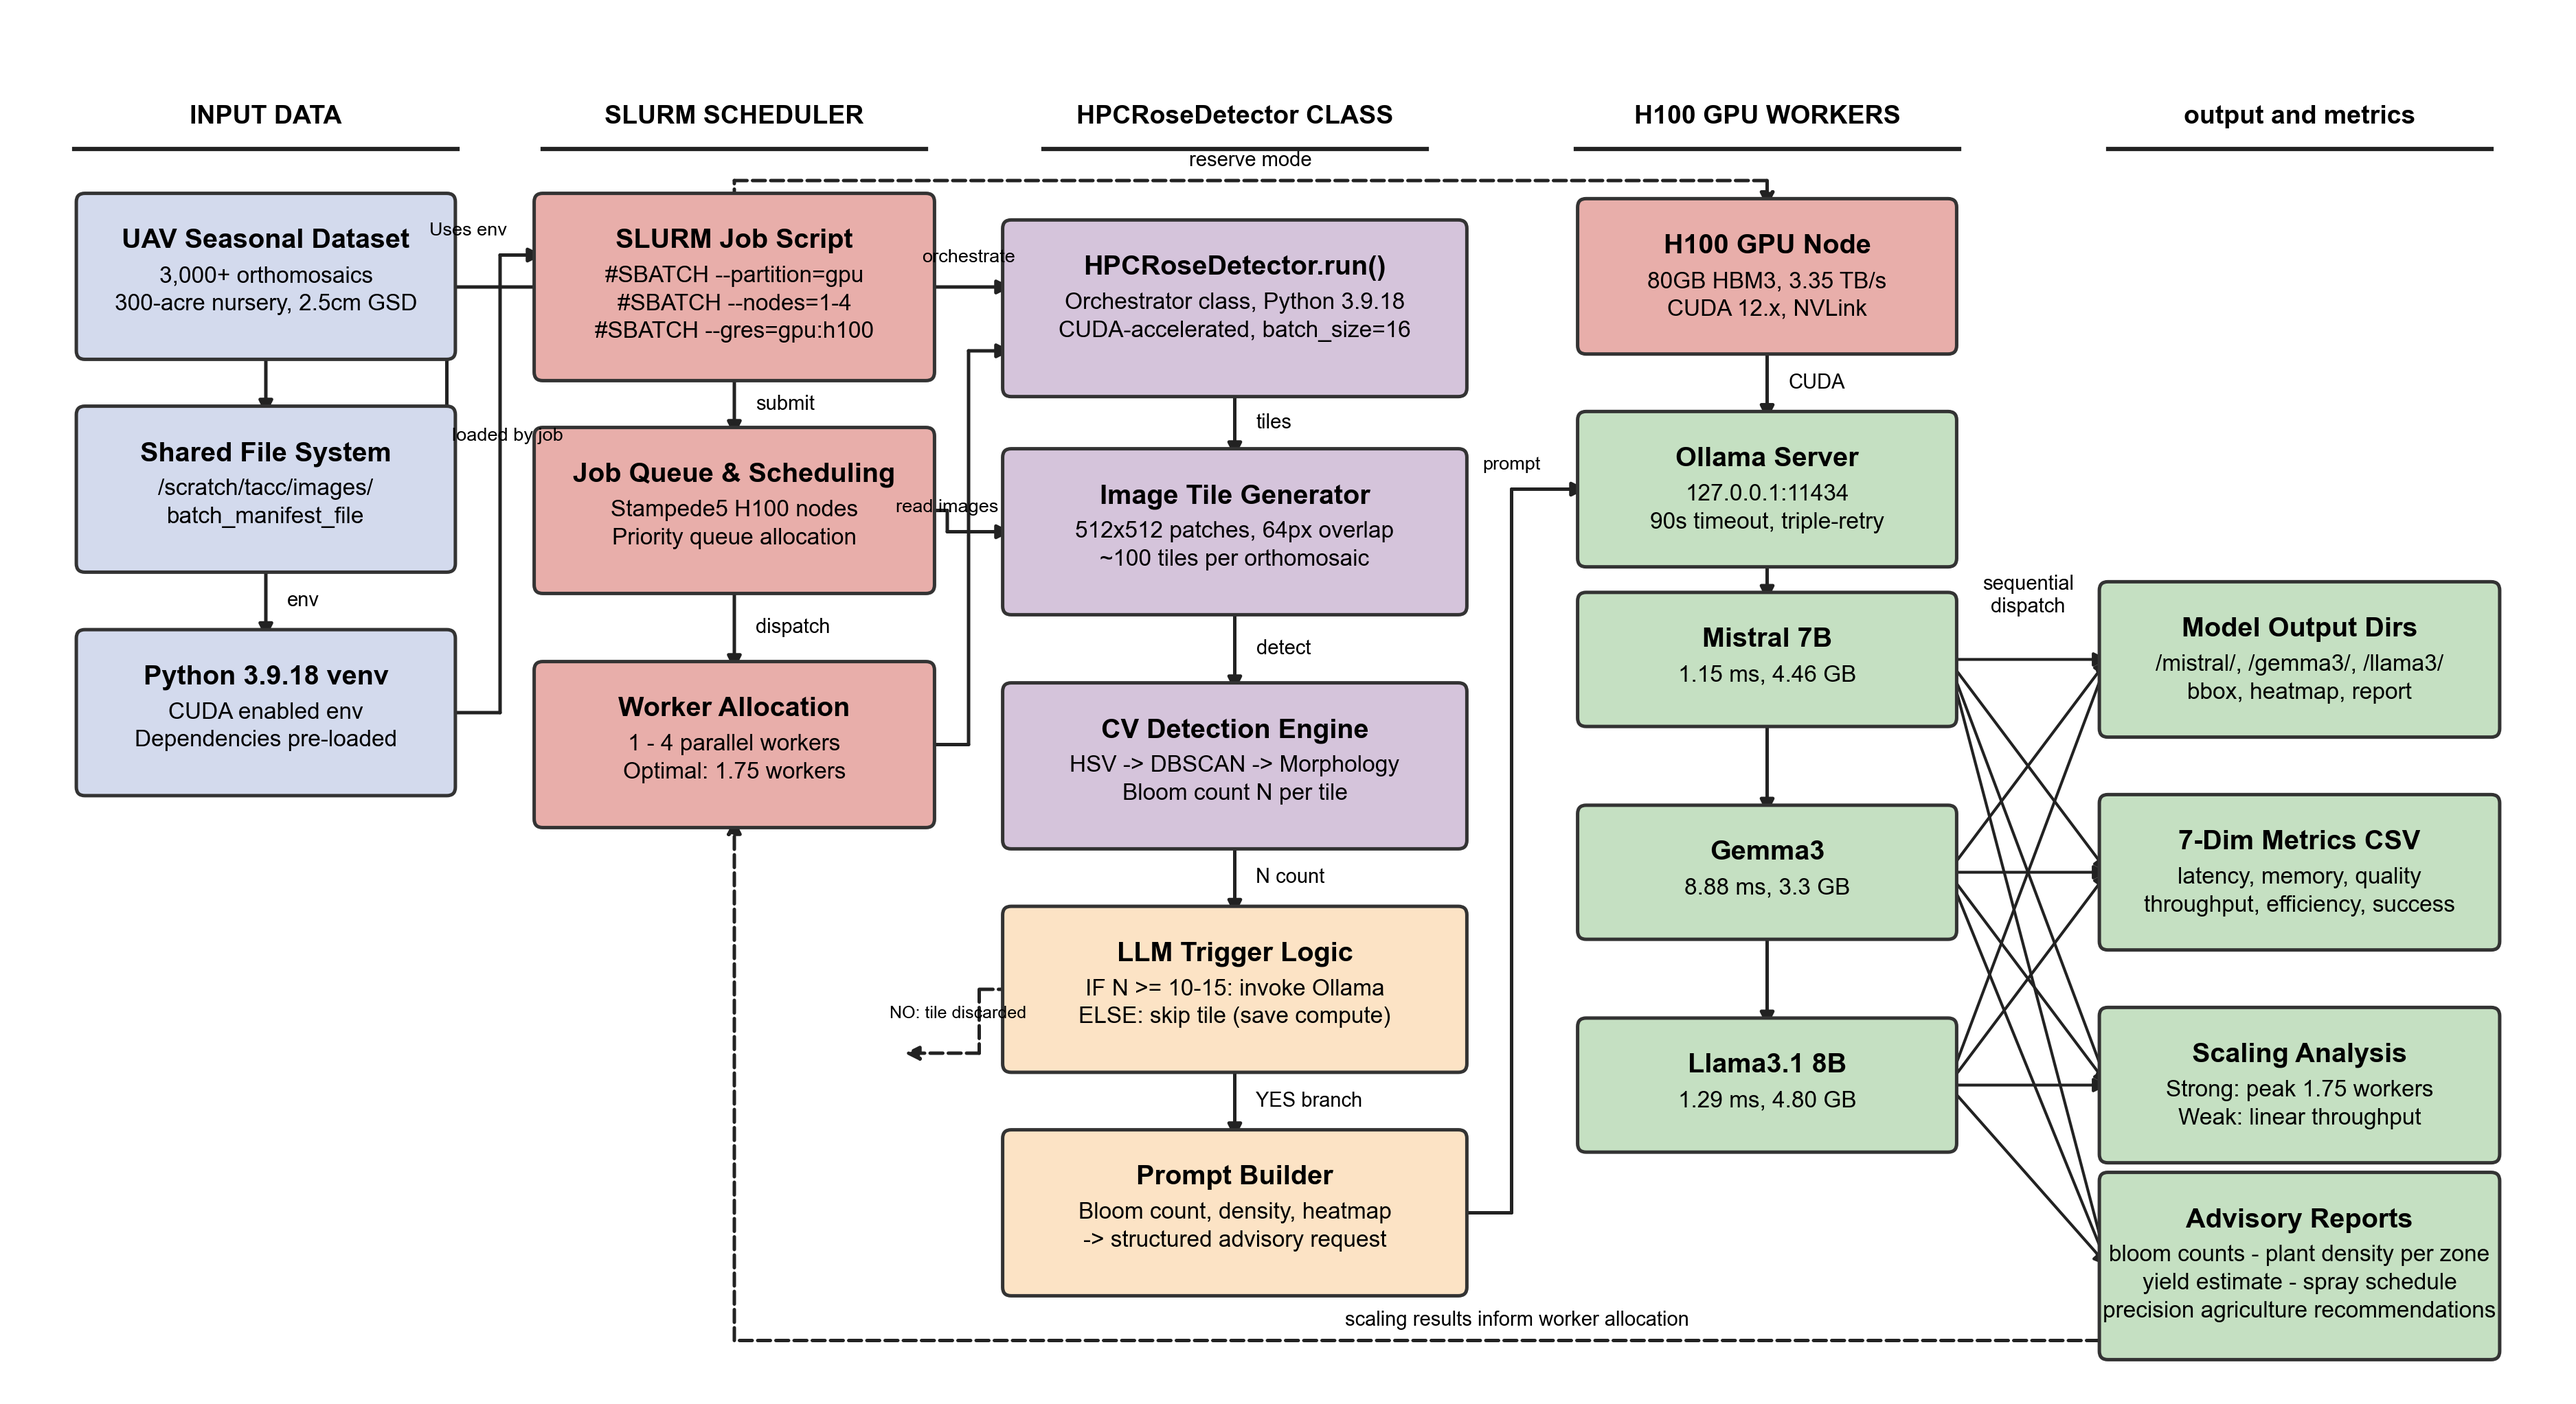
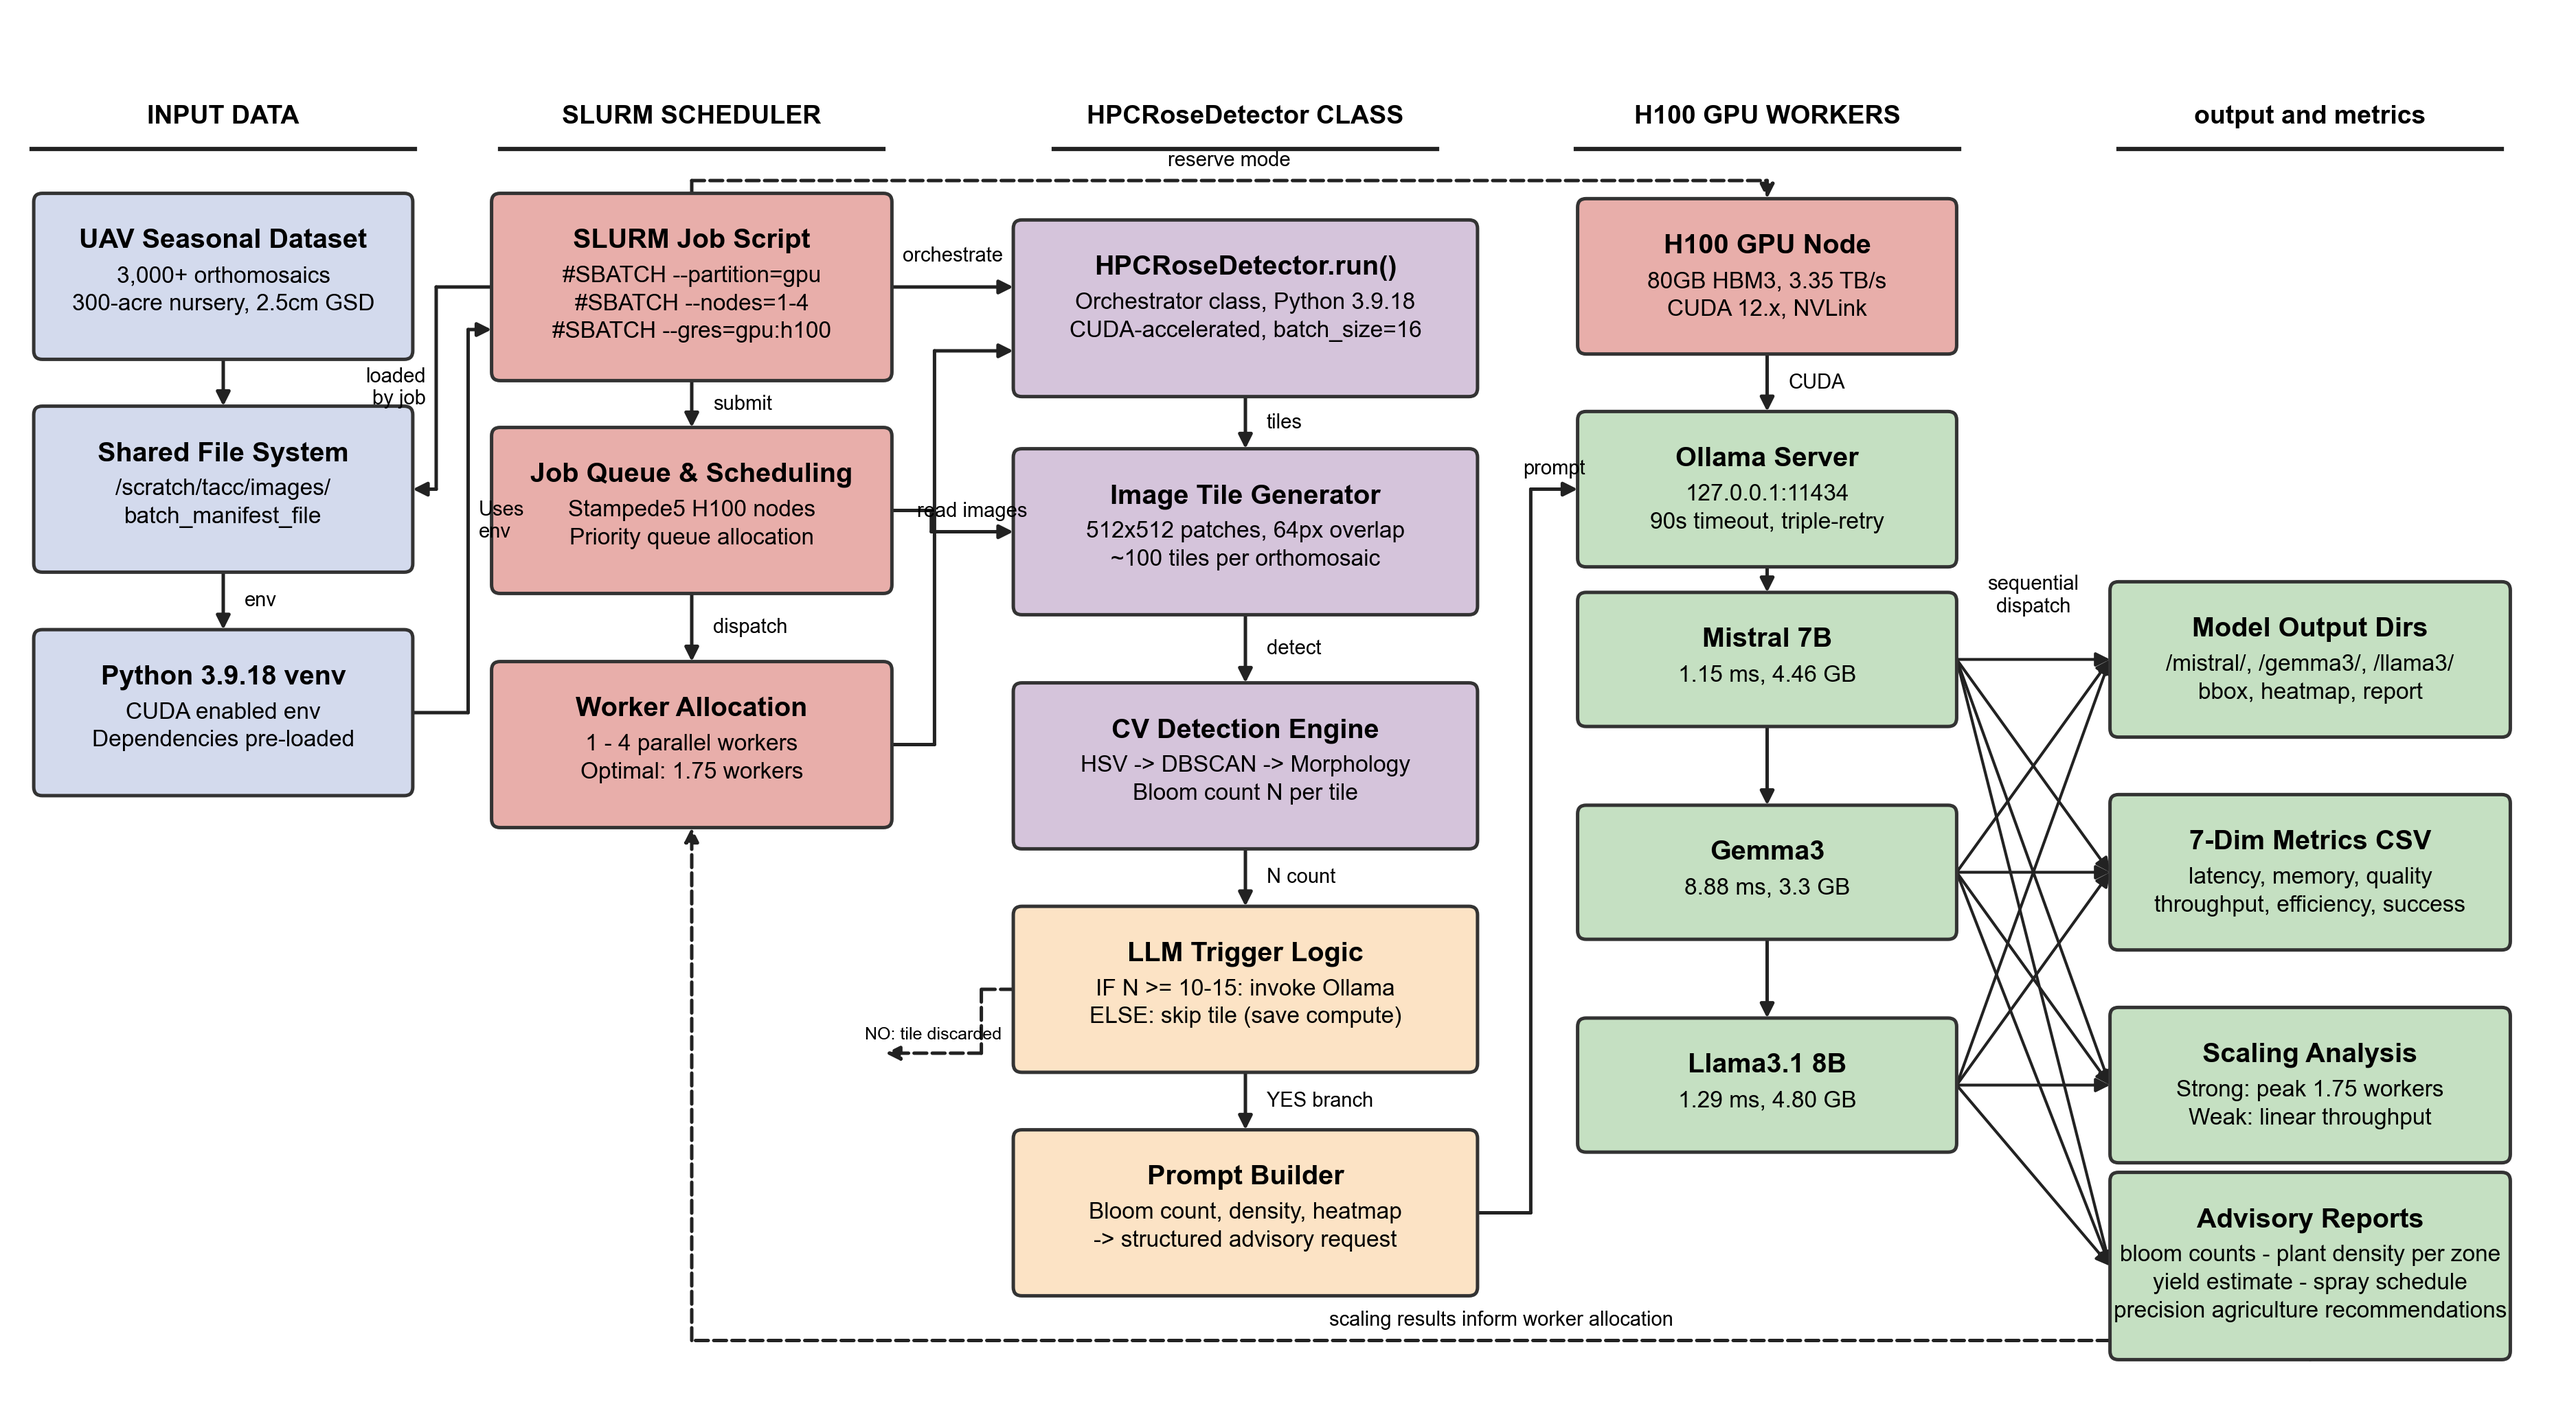
fix(diagram): fully resolve intersecting text layout and fix clipped arrowheads

diff --git a/create_hpc_architecture_diagram.py b/create_hpc_architecture_diagram.py
@@ -70,8 +70,8 @@ def create_diagram(save_path, fmt="png"):
                     fontsize=8, zorder=5, linespacing=1.4)
 
         return dict(cx=cx, cy=cy, w=w, h=h,
-                    t=(cx, cy + h/2), b=(cx, cy - h/2),
-                    l=(cx - w/2, cy), r=(cx + w/2, cy))
+                    t=(cx, cy + h/2 + 0.08), b=(cx, cy - h/2 - 0.08),
+                    l=(cx - w/2 - 0.08, cy), r=(cx + w/2 + 0.08, cy))
 
     # ── Arrow: straight ──────────────────────────────────────────────
     def arr(p1, p2, lbl=None, loff=(0, 0), color=EDGE_COL, lw=1.2,
@@ -93,7 +93,7 @@ def create_diagram(save_path, fmt="png"):
     # ==================================================================
     #  COLUMN X-CENTRES & HEADINGS
     # ==================================================================
-    cx1, cx2, cx3, cx4, cx5 = 2.4, 6.8, 11.5, 16.5, 21.5
+    cx1, cx2, cx3, cx4, cx5 = 2.0, 6.4, 11.6, 16.5, 21.6
     heading_y = 12.0
     
     headings = [
@@ -213,26 +213,26 @@ def create_diagram(save_path, fmt="png"):
 
     # -- Cross-Column Connections --
     
-    # "loaded by job": From SLURM (left) LEFT, DOWN, RIGHT to Shared FS (left)
+    # "loaded by job": From SLURM (left) LEFT, DOWN, LEFT to Shared FS (right)
     slurm_lt = b_slurm["l"]
-    sfs_lt = b_sfs["l"]
-    mid_x_1 = slurm_lt[0] - 0.9
+    sfs_rt = b_sfs["r"]
+    mid_x_1 = 4.0
     arr(slurm_lt, (mid_x_1, slurm_lt[1]), headless=True)
-    arr((mid_x_1, slurm_lt[1]), (mid_x_1, sfs_lt[1]), headless=True)
-    arr((mid_x_1, sfs_lt[1]), sfs_lt)
-    label(mid_x_1 + 0.05, sfs_lt[1] + 0.5, "loaded by job", ha="left", fs=6.5)
+    arr((mid_x_1, slurm_lt[1]), (mid_x_1, sfs_rt[1]), headless=True)
+    arr((mid_x_1, sfs_rt[1]), sfs_rt)
+    label(mid_x_1 - 0.1, (slurm_lt[1] + sfs_rt[1]) / 2, "loaded\nby job", ha="right", va="center", fs=7)
 
     # "Uses env": From Python venv (right) RIGHT, UP, RIGHT to SLURM (left)
     venv_rt = b_venv["r"]
-    mid_x_2 = slurm_lt[0] - 0.4
-    dest_y_slurm = b_slurm["cy"] + 0.3 # Enter high on the left edge
+    mid_x_2 = 4.3
+    dest_y_slurm = b_slurm["cy"] - 0.4 # Enter low on the left edge
     arr(venv_rt, (mid_x_2, venv_rt[1]), headless=True)
     arr((mid_x_2, venv_rt[1]), (mid_x_2, dest_y_slurm), headless=True)
     arr((mid_x_2, dest_y_slurm), (b_slurm["l"][0], dest_y_slurm))
-    label(mid_x_2 - 0.3, dest_y_slurm + 0.15, "Uses env", ha="center", va="bottom", fs=6.5)
+    label(mid_x_2 + 0.1, (venv_rt[1] + dest_y_slurm) / 2, "Uses\nenv", ha="left", va="center", fs=7)
 
     # "orchestrate": SLURM (right) to HPC Run (left)
-    arr(b_slurm["r"], (b_run["l"][0], b_slurm["cy"]), lbl="orchestrate", loff=(0, 0.2), lbl_va="bottom", lbl_fs=6.5)
+    arr(b_slurm["r"], (b_run["l"][0], b_slurm["cy"]), lbl="orchestrate", loff=(0, 0.2), lbl_va="bottom", lbl_fs=7)
 
     # "reserve node": Dashed, from SLURM (top) UP, RIGHT, DOWN to H100 (top)
     sl_top = b_slurm["t"]
@@ -258,15 +258,15 @@ def create_diagram(save_path, fmt="png"):
     arr(queue_rt, (pass_x, queue_rt[1]), headless=True)
     arr((pass_x, queue_rt[1]), (pass_x, tile_lt[1]), headless=True)
     arr((pass_x, tile_lt[1]), tile_lt)
-    label(pass_x, tile_lt[1] + 0.15, "read images", ha="center", va="bottom", fs=6.5)
+    label((pass_x + tile_lt[0]) / 2, tile_lt[1] + 0.1, "read images", ha="center", va="bottom", fs=7)
 
     # NO: tile discarded: Dashed LEFT from LLM Trigger Logic
     trig_lt = b_trig["l"]
-    no_end = (trig_lt[0] - 1.0, trig_lt[1])
+    no_end = (trig_lt[0] - 1.2, trig_lt[1])
     arr(trig_lt, (trig_lt[0] - 0.3, trig_lt[1]), dashed=True, headless=True)
     arr((trig_lt[0] - 0.3, trig_lt[1]), (trig_lt[0] - 0.3, trig_lt[1] - 0.6), dashed=True, headless=True)
     arr((trig_lt[0] - 0.3, trig_lt[1] - 0.6), (no_end[0], trig_lt[1] - 0.6), dashed=True)
-    label(no_end[0] + 0.5, trig_lt[1] - 0.3, "NO: tile discarded", fs=6, va="bottom")
+    label(no_end[0] + 0.45, trig_lt[1] - 0.6 + 0.1, "NO: tile discarded", fs=6, va="bottom")
     
     # "prompt": Prompt Builder (right) RIGHT, UP, RIGHT to Ollama (left)
     prmpt_rt = b_prmpt["r"]
@@ -275,7 +275,7 @@ def create_diagram(save_path, fmt="png"):
     arr(prmpt_rt, (prompt_x, prmpt_rt[1]), headless=True)
     arr((prompt_x, prmpt_rt[1]), (prompt_x, oll_lt[1]), headless=True)
     arr((prompt_x, oll_lt[1]), oll_lt)
-    label(prompt_x, oll_lt[1] + 0.15, "prompt", ha="center", va="bottom", fs=6.5)
+    label((prompt_x + oll_lt[0]) / 2, oll_lt[1] + 0.1, "prompt", ha="center", va="bottom", fs=7)
 
 
     # -- 12 Criss-Cross Arrows --
